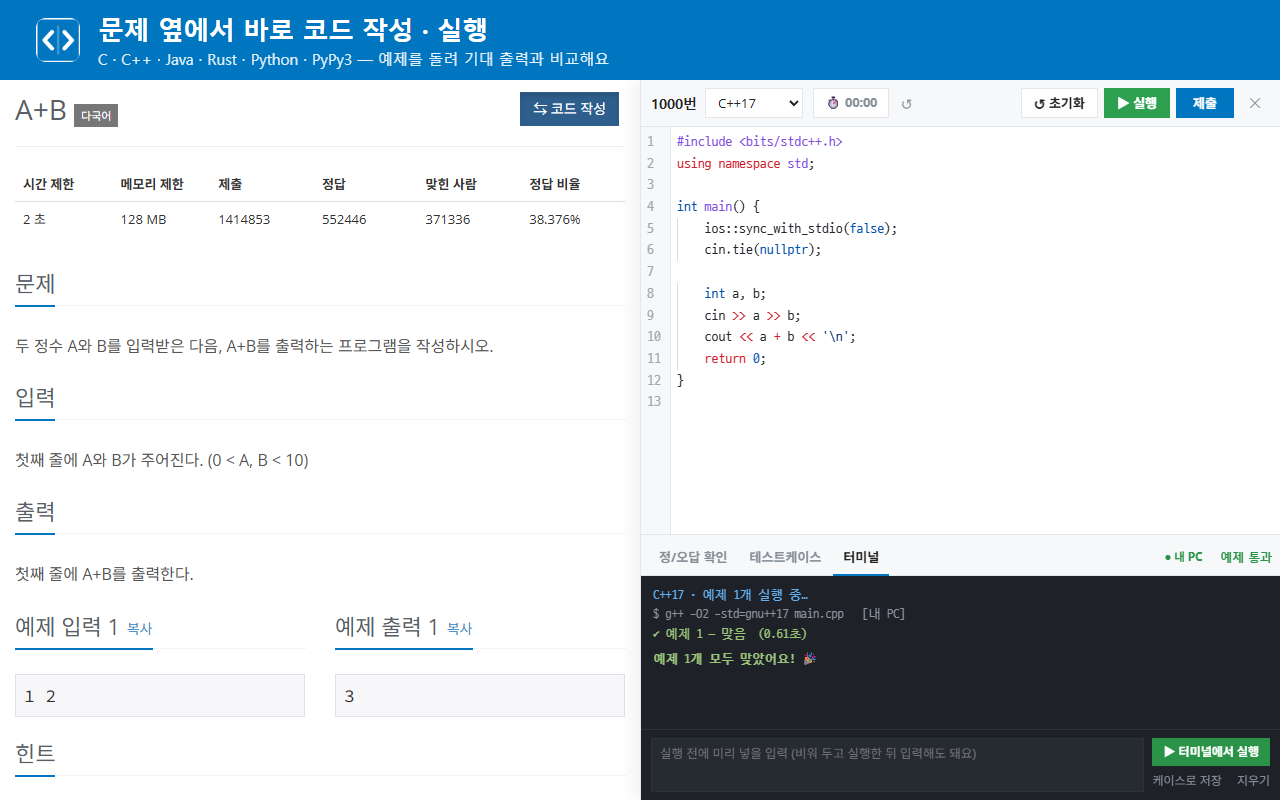
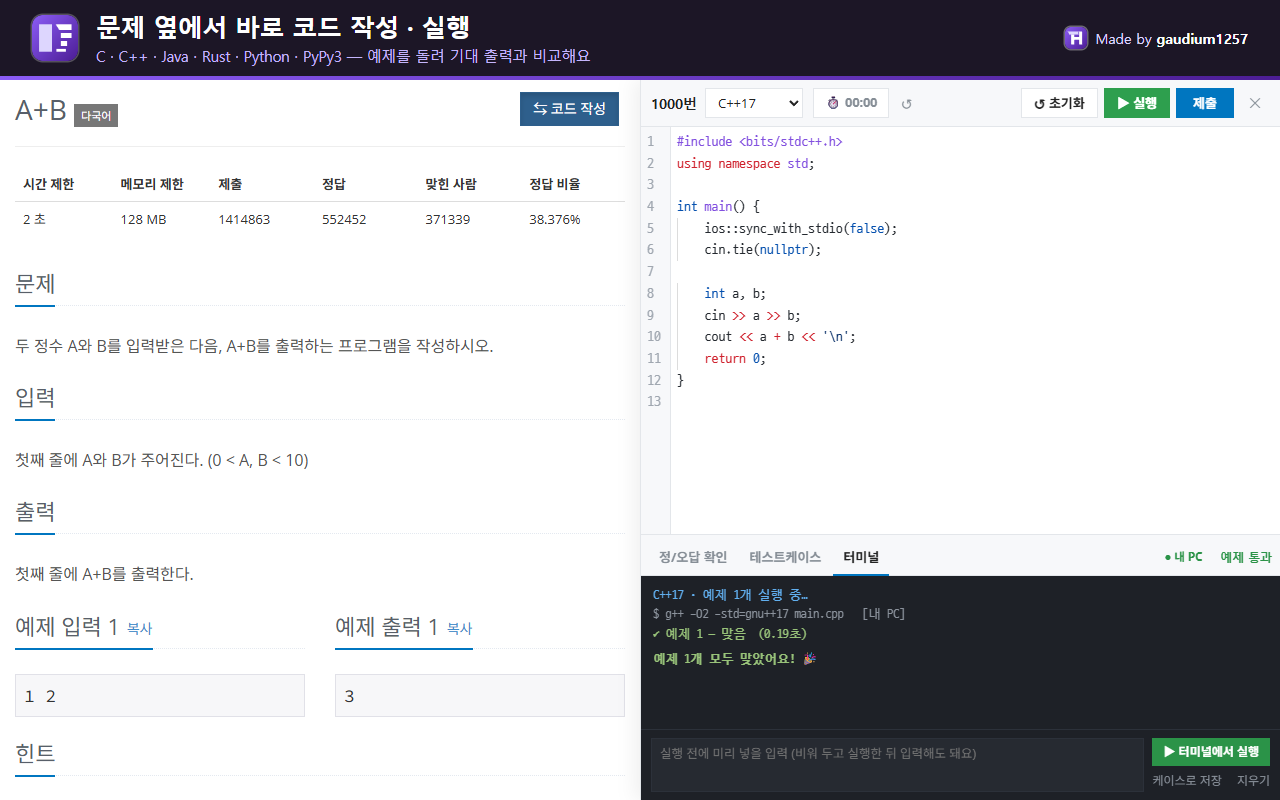
v1.6.0: rebrand with the author's TH identity, faster helper startup
- New extension icon in the author's brand style (same violet gradient,
  rounded square and block grammar as the TH monogram, incl. the slanted
  bar): a split view of problem | code. Source in icons/icon.svg,
  PNGs from tests/e2e/make-icons.mjs
- Popup uses the brand color tokens and signs off with the TH mark
  ("Made by gaudium1257" -> portfolio); shortcut list no longer wraps
- Store screenshots and promo tiles rebranded (dark ink caption bar with
  violet rule, TH signature) and recaptured
- manifest homepage_url; README shows the icon and a maker section
- Fix: the first run could go to Wandbox while the helper was still
  starting. Helper 1.3.0 probes tool versions in parallel once
  (first reply 2.8s -> 1.4s) and the extension waits up to 10s for it

E2E: 55/55

Changed region(s): [[0.0, 0.0, 1.0, 0.125]]

diff --git a/popup/popup.css b/popup/popup.css
@@ -1,10 +1,14 @@
+/* 색은 만든 사람(TH, gaudium1257.github.io)의 브랜드 토큰을 따른다 */
 :root {
-  --bg: #F5F7FA;
-  --card: #FFFFFF;
-  --ink: #222;
-  --muted: #868E96;
-  --line: #E3E6EA;
-  --accent: #0076C0;
+  --bg: #f6f4fa;
+  --card: #ffffff;
+  --ink: #1c1626;
+  --muted: #5d5670;
+  --line: #e5e0ee;
+  --accent: #6d28d9;
+  --accent-50: #f5f3ff;
+  --accent-700: #5b21b6;
+  --chip: #efebf7;
 }
 
 * { box-sizing: border-box; }
@@ -36,7 +40,7 @@ h1 { margin: 0; font-size: 16px; font-weight: 800; }
 .row { display: flex; align-items: center; justify-content: space-between; gap: 8px; min-height: 38px; border-top: 1px dashed var(--line); }
 h2 { margin: 0; font-size: 13px; font-weight: 700; white-space: nowrap; }
 
-.seg { display: inline-flex; background: #EEF1F4; border-radius: 9px; padding: 2px; }
+.seg { display: inline-flex; background: var(--chip); border-radius: 9px; padding: 2px; }
 .seg button {
   border: 0; background: transparent; padding: 5px 11px; border-radius: 7px;
   font-size: 12.5px; color: var(--muted); font-weight: 600;
@@ -44,14 +48,14 @@ h2 { margin: 0; font-size: 13px; font-weight: 700; white-space: nowrap; }
 .seg button:hover { color: var(--ink); }
 .seg button[aria-pressed="true"] { background: #fff; color: var(--ink); box-shadow: 0 1px 3px rgba(0, 0, 0, .14); }
 
-.pick { font: inherit; font-size: 12.5px; color: var(--ink); background: #EEF1F4; border: 0; border-radius: 9px; padding: 5px 8px; }
+.pick { font: inherit; font-size: 12.5px; color: var(--ink); background: var(--chip); border: 0; border-radius: 9px; padding: 5px 8px; }
 
 .toggle { display: flex; align-items: center; gap: 10px; padding: 8px 0; cursor: pointer; position: relative; }
 .toggle > span { flex: 1; display: flex; flex-direction: column; }
 .toggle b { font-weight: 600; }
 .toggle small { color: var(--muted); font-size: 11px; }
 .toggle input { position: absolute; opacity: 0; pointer-events: none; }
-.toggle i { position: relative; width: 34px; height: 20px; border-radius: 99px; background: #D5DAE0; flex: none; transition: background .2s; }
+.toggle i { position: relative; width: 34px; height: 20px; border-radius: 99px; background: #d9d3e6; flex: none; transition: background .2s; }
 .toggle i::after {
   content: ""; position: absolute; left: 2px; top: 2px; width: 16px; height: 16px; border-radius: 50%;
   background: #fff; box-shadow: 0 1px 2px rgba(0, 0, 0, .2); transition: transform .2s;
@@ -62,7 +66,7 @@ h2 { margin: 0; font-size: 13px; font-weight: 700; white-space: nowrap; }
 
 .keys { padding: 10px 12px; }
 .keys dl { display: grid; grid-template-columns: auto 1fr; gap: 4px 10px; margin: 8px 0 0; font-size: 12px; }
-.keys dt { font-family: Consolas, monospace; color: var(--ink); background: #EEF1F4; border-radius: 5px; padding: 0 6px; }
+.keys dt { font-family: Consolas, monospace; font-size: 11px; color: var(--ink); background: var(--chip); border-radius: 5px; padding: 1px 6px; white-space: nowrap; }
 .keys dd { margin: 0; color: var(--muted); }
 .note { margin: 6px 2px 0; color: var(--muted); font-size: 11px; line-height: 1.5; }
 .note a { color: var(--muted); }
@@ -72,26 +76,27 @@ h2 { margin: 0; font-size: 13px; font-weight: 700; white-space: nowrap; }
 .tpl textarea {
   display: block; width: 100%; height: 150px; margin: 4px 0 6px; resize: vertical;
   font: 12px/1.5 "D2Coding", "JetBrains Mono", Consolas, monospace; color: var(--ink);
-  background: #FAFBFC; border: 1px solid var(--line); border-radius: 8px; padding: 6px 8px;
+  background: #fbfaff; border: 1px solid var(--line); border-radius: 8px; padding: 6px 8px;
   white-space: pre; overflow: auto; tab-size: 4;
 }
 .tpl textarea:focus { outline: none; border-color: var(--accent); background: #fff; }
 .tpl-bar { display: flex; align-items: center; gap: 6px; }
 
-.tpl code { font-family: Consolas, monospace; background: #EEF1F4; border-radius: 4px; padding: 0 3px; }
+.tpl code { font-family: Consolas, monospace; background: var(--chip); border-radius: 4px; padding: 0 3px; }
 .tpl-state { font-size: 11px; color: var(--muted); flex: 1; }
 .tpl-state.dirty { color: #E67700; font-weight: 600; }
 .tpl-state.saved { color: #2B9348; font-weight: 600; }
 .tpl-state.error { color: #DD4124; font-weight: 600; }
 .mini { border: 1px solid var(--line); background: #fff; border-radius: 7px; padding: 3px 9px; font-size: 12px; }
-.mini:hover { border-color: #B8C0C8; }
+.mini:hover { border-color: #c4b5fd; }
+.mini.primary:hover { background: var(--accent-700); border-color: var(--accent-700); }
 .mini.primary { background: var(--accent); border-color: var(--accent); color: #fff; font-weight: 700; }
 .hint { margin: 6px 0 0; color: var(--muted); font-size: 11px; }
 
 /* 실행 위치 */
 .row.runner { border-top: 0; }
 .runner-state { display: flex; flex-direction: column; align-items: flex-end; font-size: 12.5px; font-weight: 700; color: var(--muted); }
-.runner-state.on { color: #2B9348; }
+.runner-state.on { color: #15803d; }
 .runner-state small { font-size: 11px; font-weight: 400; color: var(--muted); }
 .runner-state a { font-size: 11px; font-weight: 600; color: var(--accent); text-decoration: none; }
 .runner-state a:hover { text-decoration: underline; }
@@ -100,3 +105,12 @@ h2 { margin: 0; font-size: 13px; font-weight: 700; white-space: nowrap; }
 
 /* 기본 코드 언어 탭 4개가 들어가도록 */
 .tpl .seg button { padding: 5px 6px; font-size: 12px; }
+
+/* 만든 사람 서명 */
+.made-by {
+  display: flex; align-items: center; justify-content: center; gap: 6px; margin: 10px 0 2px;
+  color: var(--muted); font-size: 11.5px; text-decoration: none;
+}
+.made-by img { width: 18px; height: 18px; border-radius: 5px; }
+.made-by b { color: var(--accent-700); font-weight: 700; }
+.made-by:hover b { text-decoration: underline; }

diff --git a/popup/popup.html b/popup/popup.html
@@ -81,6 +81,9 @@
     </dl>
   </section>
   <p class="note">내 PC 실행 도우미가 없으면 코드를 Wandbox(wandbox.org)에서 실행해요.<br>백준(BOJ)과 관련 없는 비공식 확장 프로그램이에요. · <a href="https://github.com/gaudium1257/Convenient_BOJ/blob/main/PRIVACY.md" target="_blank">개인정보처리방침</a></p>
+  <a class="made-by" href="https://gaudium1257.github.io" target="_blank" title="만든 사람의 포트폴리오">
+    <img src="../icons/th-mark.svg" alt="TH">Made by <b>gaudium1257</b>
+  </a>
 
   <script src="../shared/defaults.js"></script>
   <script src="popup.js"></script>

diff --git a/content/split.js b/content/split.js
@@ -902,9 +902,10 @@
       const port = runnerPort();
       if (!port) { settleRunnerWaiters(); return; }
       port.postMessage({ type: 'info' });
+      // 도우미가 없으면 곧바로 'nohost'가 오고, 있으면 첫 시작이 느린 PC(막 켠 직후, 백신 검사)도 있어서 넉넉히 기다린다
       setTimeout(() => {
         if (runner.state === 'unknown') { runner.state = 'off'; runner.error = '응답 없음'; settleRunnerWaiters(); }
-      }, 4000);
+      }, 10000);
     });
   }
 

diff --git a/host/cboj_host.py b/host/cboj_host.py
@@ -27,7 +27,7 @@ import tempfile
 import threading
 import time
 
-VERSION = '1.2.0'
+VERSION = '1.3.0'
 IS_WIN = os.name == 'nt'
 NO_WINDOW = 0x08000000 if IS_WIN else 0  # CREATE_NO_WINDOW: 콘솔 창이 뜨지 않게
 OUT_LIMIT = 2_000_000                    # 실시간 출력 최대 바이트 (넘으면 종료)
@@ -170,20 +170,37 @@ def rust_host_triple():
     return ''
 
 
-RUST_HOST = rust_host_triple()
-PYPY_VERSION = pypy_version()
-
-
-def javac_major():
+def javac_major(version):
     """'javac 17.0.20.1' → 17, 'javac 1.8.0_201' → 8, 모르면 0"""
-    m = re.search(r'javac (\d+)(?:\.(\d+))?', tool_version(TOOLS['javac']) or '')
+    m = re.search(r'javac (\d+)(?:\.(\d+))?', version or '')
     if not m:
         return 0
     major = int(m.group(1))
     return int(m.group(2) or 0) if major == 1 else major
 
 
-JAVAC_MAJOR = javac_major()
+# 도구 버전 확인은 시작할 때 한 번, 동시에 한다.
+# (하나씩 하면 javac·pypy 처럼 느린 것들이 쌓여 첫 응답이 3초 가까이 걸려서,
+#  확장이 '도우미 없음'으로 보고 Wandbox로 실행해 버릴 수 있다)
+def _probe_versions():
+    from concurrent.futures import ThreadPoolExecutor
+    jobs = {
+        'gcc': lambda: tool_version(TOOLS['gcc']),
+        'gpp': lambda: tool_version(TOOLS['g++']),
+        'javac': lambda: tool_version(TOOLS['javac']) if TOOLS['java'] else None,
+        'rustc': lambda: tool_version(TOOLS['rustc']),
+        'rust_host': rust_host_triple,
+        'pypy': pypy_version,
+    }
+    with ThreadPoolExecutor(max_workers=len(jobs)) as pool:
+        futures = {k: pool.submit(f) for k, f in jobs.items()}
+        return {k: f.result() for k, f in futures.items()}
+
+
+VERSIONS = _probe_versions()
+RUST_HOST = VERSIONS['rust_host'] or ''
+PYPY_VERSION = VERSIONS['pypy']
+JAVAC_MAJOR = javac_major(VERSIONS['javac'])
 
 
 def child_env():
@@ -200,10 +217,10 @@ def info():
         'type': 'info',
         'version': VERSION,
         'python': sys.version.split()[0],
-        'gcc': tool_version(TOOLS['gcc']),
-        'gpp': tool_version(TOOLS['g++']),
-        'javac': tool_version(TOOLS['javac']) if TOOLS['java'] else None,
-        'rustc': tool_version(TOOLS['rustc']),
+        'gcc': VERSIONS['gcc'],
+        'gpp': VERSIONS['gpp'],
+        'javac': VERSIONS['javac'],
+        'rustc': VERSIONS['rustc'],
         'pypy': PYPY_VERSION,
     }
 

diff --git a/README.md b/README.md
@@ -1,3 +1,5 @@
+<img src="icons/icon128.png" width="72" alt="Convenient BOJ 아이콘">
+
 # Convenient BOJ
 
 백준(acmicpc.net) 문제 화면에서 **문제 읽기 → 코드 작성 → 실행 → 제출 → 정/오답 확인**을 한 화면에서 끝내는 크롬 확장 프로그램이에요.
@@ -194,6 +196,14 @@ git tag v1.0.1; git push origin v1.0.1
 | `Convenient_BOJ-webstore.zip` | 크롬 웹 스토어 업로드용 (`key`와 도우미 제외) |
 
 웹 스토어 등록 문구·스크린샷·권한 사유는 [docs/store/LISTING.md](docs/store/LISTING.md)에 있어요. 웹 스토어에 처음 올리면 스토어가 새 확장 ID를 줘요. 그 ID를 `host/install.ps1` 의 `$ExtensionIds` 에 추가하고 새 버전을 배포해야 스토어 버전도 내 PC 실행 도우미에 연결돼요.
+
+## 만든 사람
+
+<a href="https://gaudium1257.github.io"><img src="icons/th-mark.svg" width="40" alt="TH"></a>
+
+**gaudium1257** · [포트폴리오](https://gaudium1257.github.io) · [GitHub](https://github.com/gaudium1257)
+
+아이콘과 팝업 색은 제 브랜드(TH 블록 모노그램, 보라 그라디언트)에 맞춰 만들었어요.
 
 ## 라이선스
 
